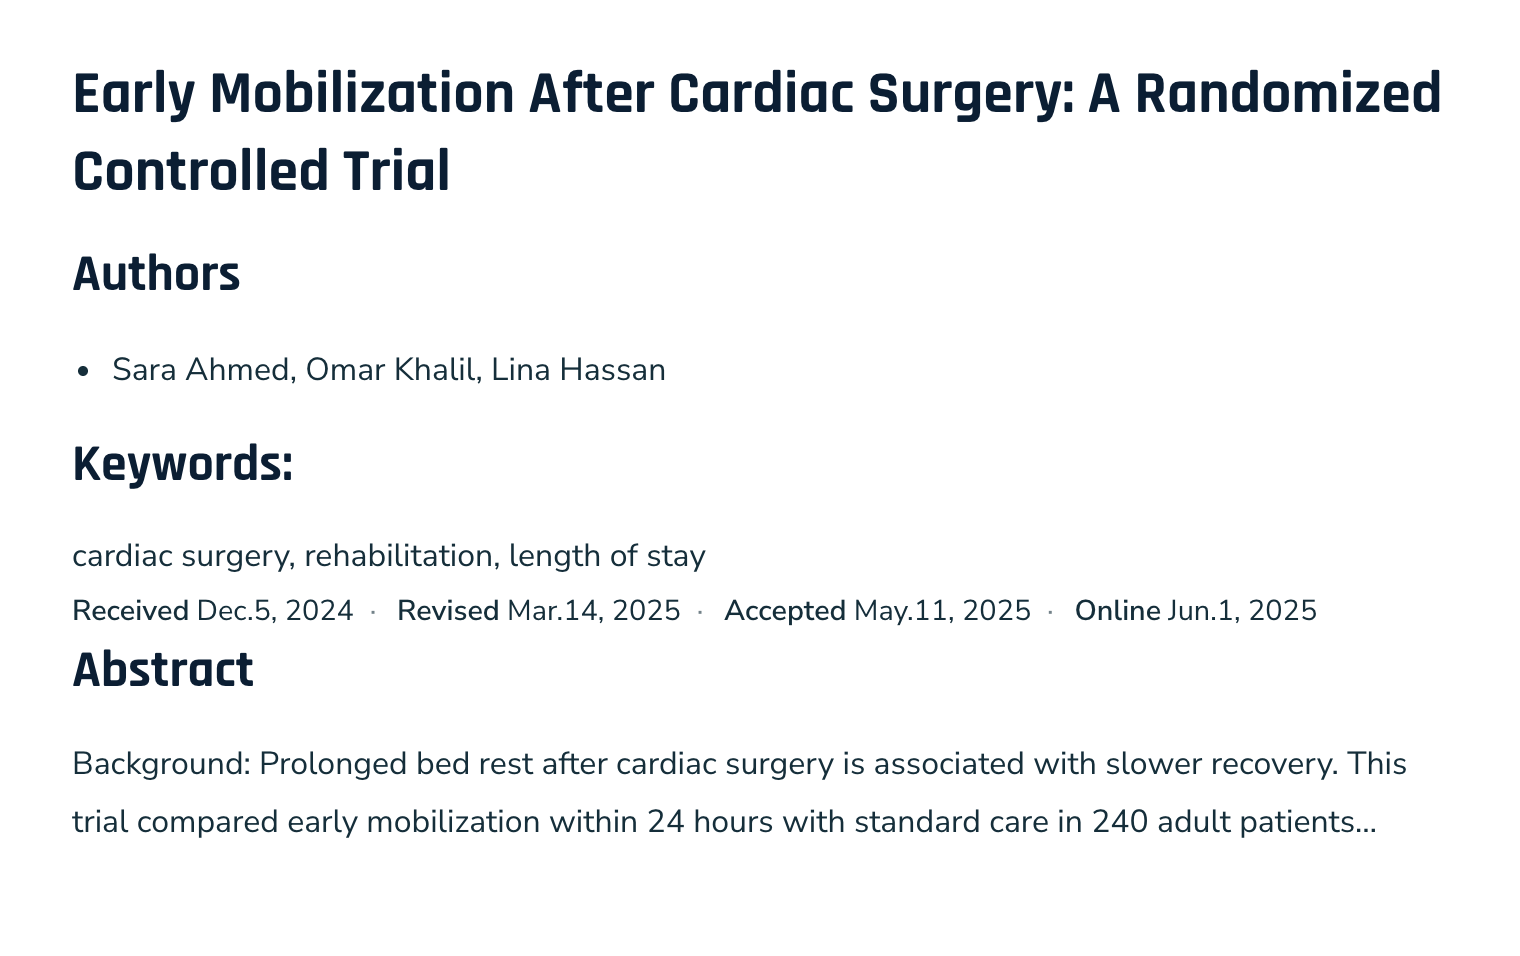
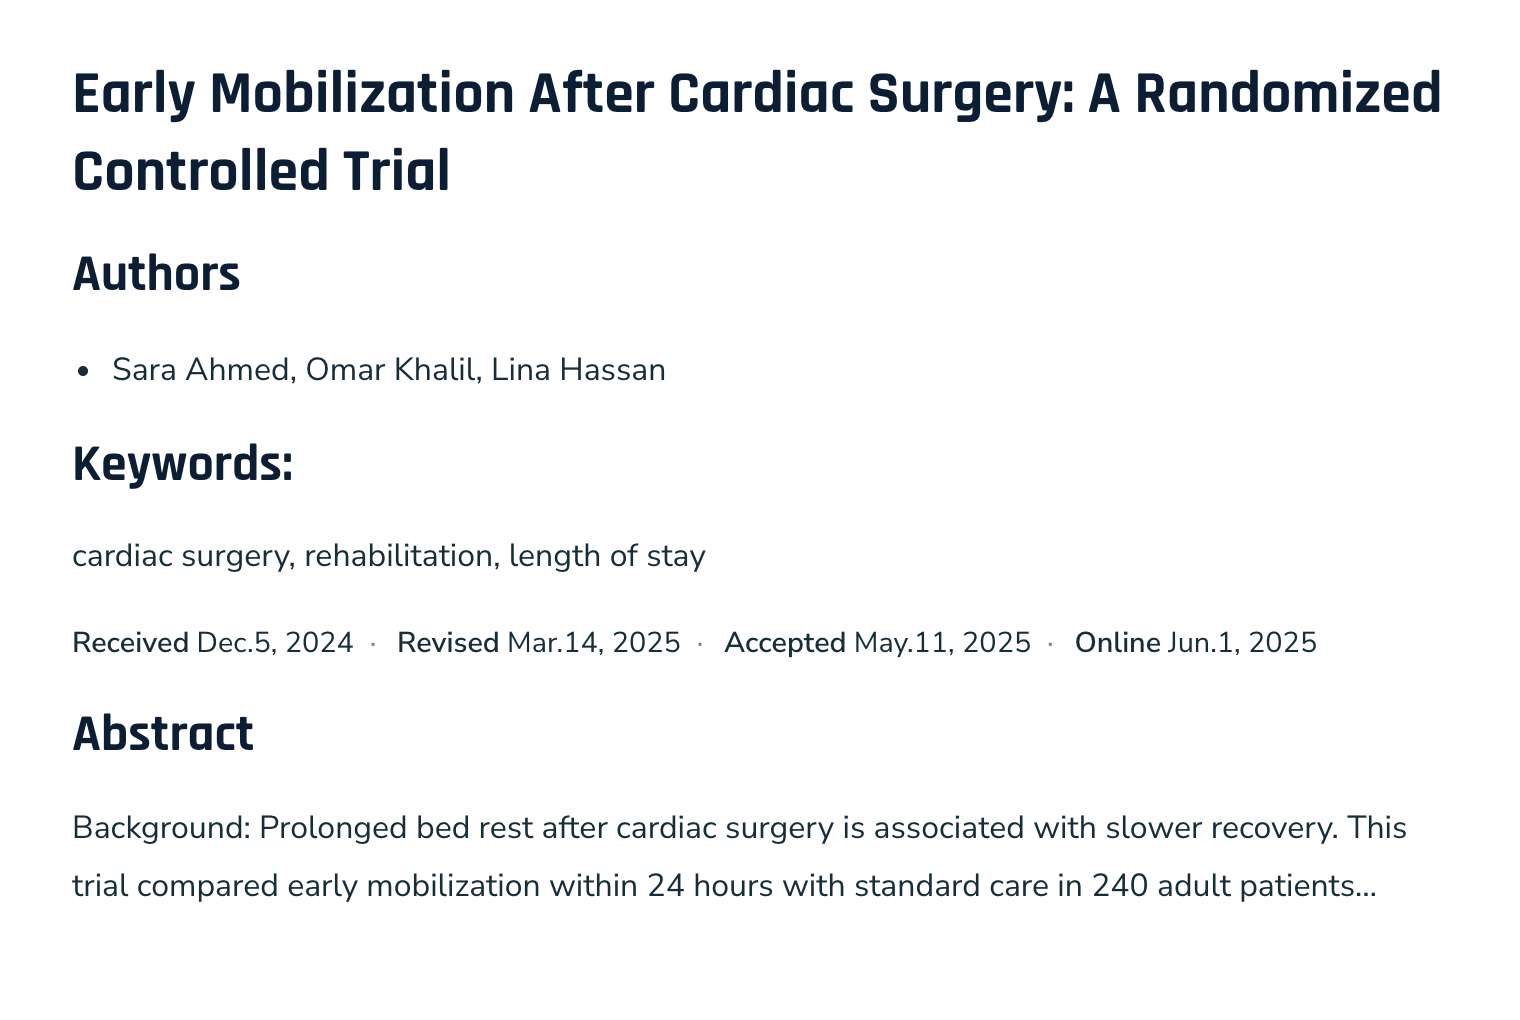
fix: space the main-column timeline in themes that don't pad .item (v1.1.0.1)

diff --git a/styles/timeline.css b/styles/timeline.css
@@ -8,7 +8,9 @@
  * inherited from the active theme.
  */
 
+/* own margin: themes like rumahJurnalTheme give .item no spacing (the default theme pads it) */
 .article-timeline-main {
+	margin: 1rem 0;
 	font-size: 0.9em;
 }
 
